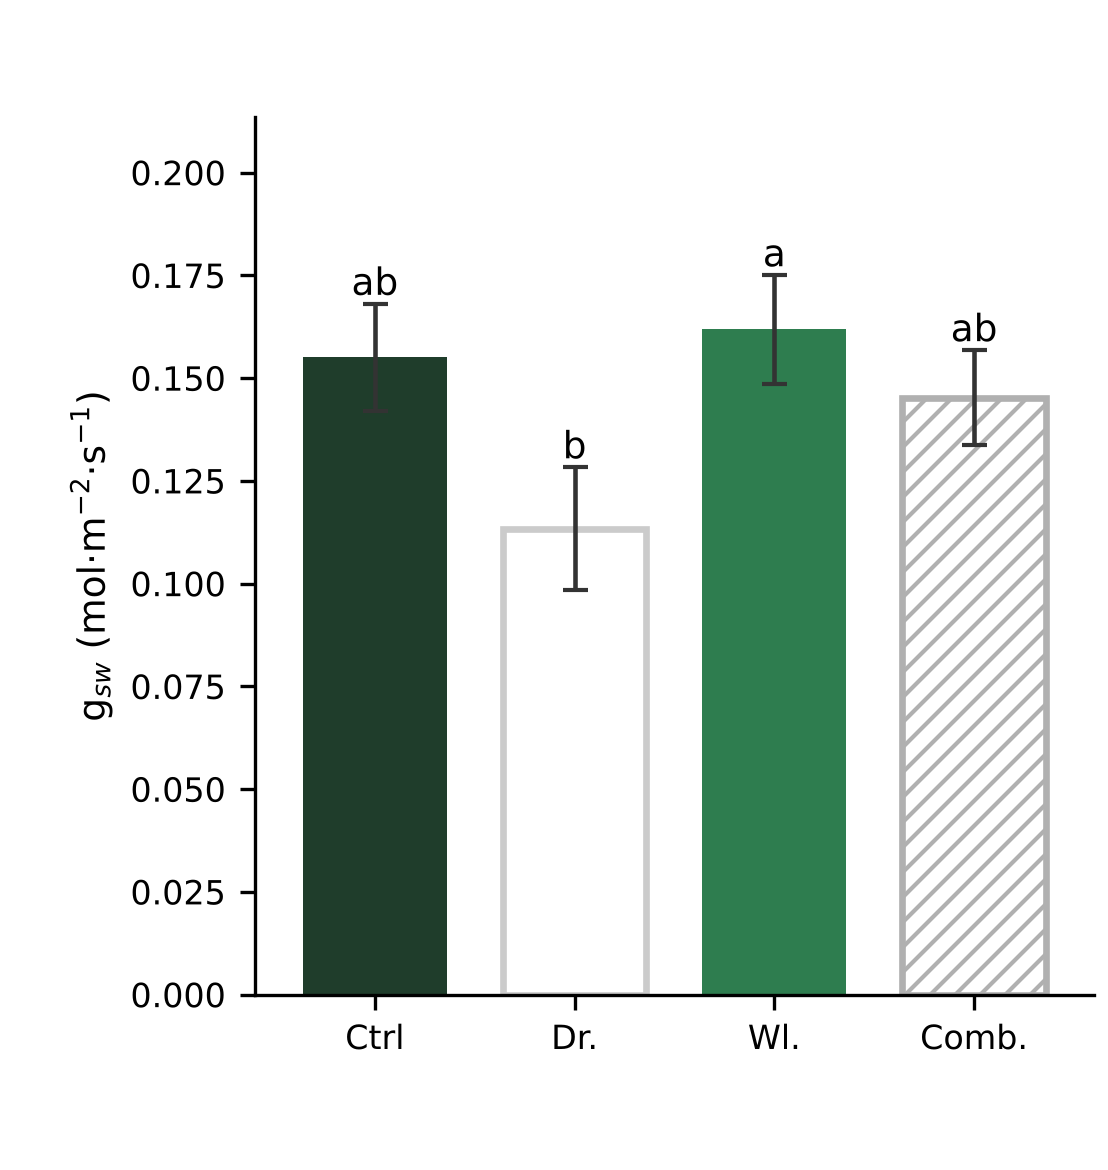
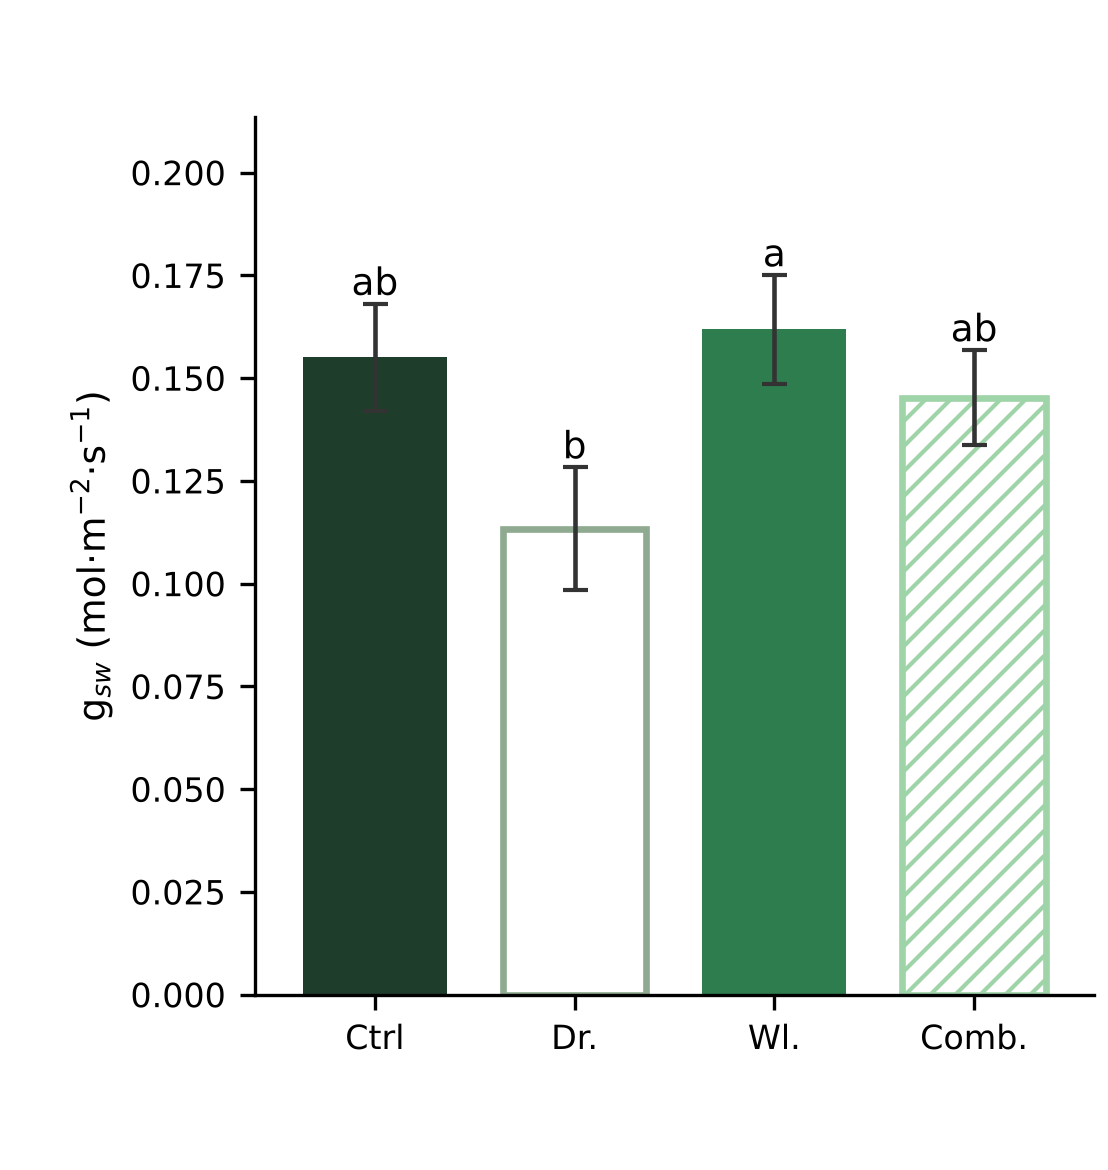
P2 gsw 막대 그래프 처리별 원래 색 복원
Claude-Session: https://claude.ai/code/session_01UmxmETyGrZNmWrhahjyccu

diff --git a/03_코드/oral_deck/bars/fig_v15.py b/03_코드/oral_deck/bars/fig_v15.py
@@ -12,8 +12,7 @@ def one(crop,fname):
     fig=plt.figure(figsize=(W,H),dpi=300); ax=fig.add_axes([PAD/W,0.15,AX_W/W,0.75]); top=0
     for k,t in enumerate(ORDER):
         m,se,lt=st[t]
-        if t in ('ETc','침수ETc'): c=CROPC[crop][t]
-        else: c=GRAY[t]
+        c=CROPC[crop][t]
         if FILLED[t]: ax.bar(k,m,0.72,color=c)
         else: ax.bar(k,m,0.72,facecolor='white',edgecolor=c,linewidth=1.6,hatch='////' if t=='침수ETc50' else None)
         ax.errorbar(k,m,se,color='#333',capsize=3,lw=1.1); top=max(top,m+se)
